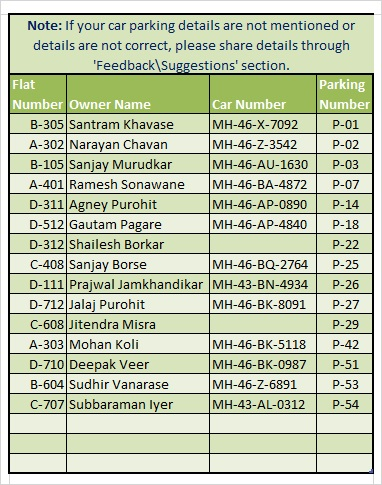
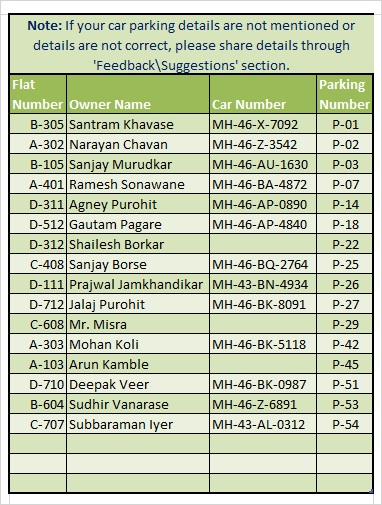
Parking

diff --git a/src/main/webapp/js/bootpopup.js b/src/main/webapp/js/bootpopup.js
@@ -1,0 +1,213 @@
+/**************************************************************************
+ * Popup dialog boxes for Bootstrap - http://www.bootpopup.tk
+ * Copyright (C) 2016  rigon<ricardompgoncalves@gmail.com>
+ *
+ * This program is free software: you can redistribute it and/or modify
+ * it under the terms of the GNU General Public License as published by
+ * the Free Software Foundation, either version 3 of the License, or
+ * (at your option) any later version.
+ *
+ * This program is distributed in the hope that it will be useful,
+ * but WITHOUT ANY WARRANTY; without even the implied warranty of
+ * MERCHANTABILITY or FITNESS FOR A PARTICULAR PURPOSE.  See the
+ * GNU General Public License for more details.
+ *
+ * You should have received a copy of the GNU General Public License
+ * along with this program.  If not, see <http://www.gnu.org/licenses/>.
+ *************************************************************************/
+
+
+var bootpopupFormCounter = 0;
+
+function bootpopup(options) {
+    bootpopupFormCounter++;
+
+    var opts = {
+        title: document.title,
+        showclose: true,
+        content: [],
+        buttons: ["close"],
+        dismiss: function(data) {},
+        close: function(data) {},
+        ok: function(data) {},
+        cancel: function(data) {},
+        yes: function(data) {},
+        no: function(data) {},
+        complete: function(data) {},
+    }
+
+    
+    var buttons = [];
+    for(key in options) {
+        if(key in opts)
+            opts[key] = options[key];
+        // If an event for a button is given, show the respective button
+        if(["close", "ok", "cancel", "yes", "no"].indexOf(key) >= 0)
+            buttons.push(key);
+    }
+    // Copy news buttons to opts.buttons
+    if(buttons.length > 0) {
+        // Clear default buttons if new are not given
+        if(!("buttons" in options)) opts.buttons = [];
+        buttons.forEach(function(item) {
+            if(opts.buttons.indexOf(item) < 0) opts.buttons.push(item);
+        });
+    }
+
+
+    var modalWindow = $('<div class="modal fade" tabindex="-1" role="dialog" aria-labelledby="bootpopup-title"></div>');
+    var dialog = $('<div class="modal-dialog" role="document"></div>');
+    var content = $('<div class="modal-content"></div>');
+    dialog.append(content);
+    modalWindow.append(dialog);
+    
+    // Header
+    var header = $('<div class="modal-header"></div>');
+    if(opts.showclose)
+        header.append('<button type="button" class="bootpopup-button close" data-dismiss="modal" aria-label="Close"><span aria-hidden="true">&times;</span></button>');
+    header.append('<h4 class="modal-title" id="bootpopup-title">' + opts.title + '</h4>');
+
+    content.append(header);
+    
+    // Body
+    var body = $('<div class="modal-body"></div>').appendTo(content);
+    var form = $("<form></form>", { id: "bootpopup-form" + bootpopupFormCounter, class: "form-horizontal" }).appendTo(body);
+
+    for(element in opts.content) {
+        for(type in opts.content[element]) {
+            var attrs = opts.content[element][type];
+            
+            for(attribute in attrs)
+                if(typeof attrs[attribute] === "function")
+                    attrs[attribute] = "("+ attrs[attribute] + ")(this)";
+
+            switch(type) {
+                /* // List of input types
+                case "button": case "checkbox": case "color": case "date": case "datetime-local": 
+                case "email": case "file": case "hidden": case "image": case "month": case "number":
+                case "password": case "radio": case "range": case "reset": case "search":
+                case "submit": case "tel": case "text": case "time": case "url": case "week": */
+                case "button": case "text": case "submit": case "color": case "url": case "password": 
+                case "hidden": case "file": case "number": case "email": case "reset": case "date":
+                    attrs.type = type;
+                    // Continue for input
+                case "input":
+                    attrs.id = (typeof attrs.id === "undefined" ? "bootpopup-form-input" + element : attrs.id);
+                    attrs.class = (typeof attrs.class === "undefined" ? "form-control" : attrs.class);
+                    attrs.type = (typeof attrs.type === "undefined" ? "text" : attrs.type);
+
+                    // Form Group
+                    var formGroup = $('<div class="form-group"></div>').appendTo(form);
+                    // Label
+                    $("<label></label>", { for: attrs.id, class: "col-sm-2 control-label", text: attrs.label}).appendTo(formGroup);
+                    // Input and div to control width
+                    var divColSm = $('<div class="col-sm-10"></div>').appendTo(formGroup);
+                    $("<input />", attrs).appendTo(divColSm);
+                    break;
+                default:
+                    form.append($("<" + type + ">", attrs));
+            }
+        }
+    }
+
+    // Footer
+    var footer = $('<div class="modal-footer"></div>');
+    content.append(footer);
+
+    for(key in opts.buttons) {
+        var item = opts.buttons[key];
+        var btnClass = "";
+        var btnText = "";
+
+        switch(item) {
+            case "close": btnClass = "btn-primary"; btnText="Close"; break;
+            case "ok": btnClass = "btn-primary"; btnText="OK"; break;
+            case "cancel": btnClass = "btn-default"; btnText="Cancel"; break;
+            case "yes": btnClass = "btn-primary"; btnText="Yes"; break;
+            case "no": btnClass = "btn-default"; btnText="No"; break;
+        }
+        
+        $("<button></button>", {
+            type: "button",
+            text: btnText,
+            class: "btn " + btnClass,
+            "data-dismiss": "modal",
+            "data-callback": item,
+            "data-form": "#bootpopup-form" + bootpopupFormCounter,
+            click: function(e) {
+                var callback = opts[$(e.target).attr("data-callback")];
+                var form = $(e.target).attr("data-form");
+                callback($(form).serializeArray(), e);
+            }
+        }).appendTo(footer);
+    }
+
+    // Fire the modal window
+    modalWindow.modal();
+    modalWindow.on('hide.bs.modal', function (e) { opts.dismiss(e); });
+    modalWindow.on('hidden.bs.modal', function (e) { opts.complete(e); });
+}
+
+
+bootpopup.alert = function(message, title, callback) {
+    if(typeof title === "function")
+        callback = title;
+
+    if(typeof title !== "string")
+        title = document.title;
+    if(typeof callback !== "function")
+        callback = function() {};
+    
+    bootpopup({
+        title: title,
+        content: [{ p: {text: message}}],
+        dismiss: function(data) { callback(); }
+    });
+}
+
+bootpopup.confirm = function(message, title, callback) {
+    if(typeof title === "function")
+        callback = title;
+
+    if(typeof title !== "string")
+        title = document.title;
+    if(typeof callback !== "function")
+        callback = function() {};
+    
+    var answer = false;
+    bootpopup({
+        title: title,
+        showclose: false,
+        content: [{ p: {text: message}}],
+        buttons: ["no", "yes"],
+        yes: function(data) { answer = true; },
+        dismiss: function(data) { callback(answer); }
+    });
+}
+
+bootpopup.prompt = function(label, type, message, title, callback) {
+    if(typeof type === "function")
+        callback = type;
+    if(typeof message === "function")
+        callback = message;
+    if(typeof title === "function")
+        callback = title;
+
+    if(typeof type !== "string")
+        type = "text";
+    if(typeof message !== "string")
+        message = "Provide a " + type + " for:";
+    if(typeof title !== "string")
+        title = document.title;
+    if(typeof callback !== "function")
+        callback = function() {};
+    
+    bootpopup({
+        title: title,
+        content: [
+            { p: {text: message}},
+            { input: {type: type, name: "value", label: label}}],
+        buttons: ["cancel", "ok"],
+        ok: callback
+    });
+}

diff --git a/src/main/webapp/CarParkingLayout.html b/src/main/webapp/CarParkingLayout.html
@@ -59,39 +59,44 @@
             </section>
         </header>
         
-		<img id="myid" class="NO-CACHE"  data-src="img/ParkingLayout.jpg" alt="" border = "0" usemap = "#html" style="margin-bottom: 22px;">
+		
+		<!-- <img id="myid" class="NO-CACHE" data-src="img/ParkingLayout.jpg" alt="" border = "0" usemap = "#html" style="margin-bottom: 22px;"> -->
+		
+		<img id="myid" class="NO-CACHE" data-src="img/ParkingLayout.jpg" alt="" border = "0" usemap = "#html" style="margin-bottom: 22px;">
 
       <map name = "html">
-         <area shape = "rect"  coords="90,90,170,110" onclick="GetParkingInfo('D-712, Jalaj Purohit, | P-27 | ')" href="#" >
+         <area shape = "rect" coords="90,90,170,110" onclick="GetParkingInfo('D-712, Jalaj Purohit, | P-27 | ')" href="#" >
         
         <area shape = "rect"  coords="690,50,730,70" onclick="GetParkingInfo('B-305, Santram Khavase, | P-01 | ')" href="#" >
         
         <area shape = "rect"  coords="650,50,690,70" onclick="GetParkingInfo('A-302, Narayan Chavan, | P-02 | ')" href="#" >
         
-        <area shape = "rect"  coords="610,50,650,70" onclick="GetParkingInfo('A-105, Sanjay Murudkar, | P-03 | ')" href="#" >
+        <area shape = "rect"  coords="610,50,650,70" onclick="GetParkingInfo('B-105, Sanjay Murudkar, | P-03 | ')" href="#" >
         
         <area shape = "rect"  coords="530,70,570,90" onclick="GetParkingInfo('A-401, Ramesh Sonawane, | P-07 | ')" href="#" >
         
         <area shape = "rect"  coords="330,50,370,70" onclick="GetParkingInfo('D-311, Agney Purohit, | P-14 | ')" href="#" >
         
-        <area shape = "rect"  coords="290,70,330,90" onclick="GetParkingInfo('A-512, Gautam Pagare, | P-18 | ')" href="#" >
+        <area shape = "rect"  coords="290,70,330,90" onclick="GetParkingInfo('D-512, Gautam Pagare, | P-18 | ')" href="#" >
         
         <area shape = "rect"  coords="210,50,250,70" onclick="GetParkingInfo('D-312, Shailesh Borkar, | P-22 | ')" href="#" >
         
         <area shape = "rect"  coords="130,50,170,90" onclick="GetParkingInfo('C-408, Sanjay Borse, | P-25 | ')" href="#" >
         
-        <area shape = "rect"  coords="90,50,130,90" onclick="GetParkingInfo('D-111, Prajwal Jamkhandikar, | P-26 | ')" href="#" >
+        <area shape = "rect"  coords="90,50,130,90"  onclick="GetParkingInfo('D-111, Prajwal Jamkhandikar, | P-26 | ')" href="#" >
         
-        <area shape = "rect"  coords="90,130,130,150" onclick="GetParkingInfo('C-608, Jitendra Misra, | P-29 | ')" href="#" >
+        <area shape = "rect"  coords="90,130,130,150" onclick="GetParkingInfo('C-608, Mr. Misra, | P-29 | ')" href="#" >
         
         <area shape = "rect"  coords="610,10,650,30" onclick="GetParkingInfo('A-303, Mohan Koli, | P-42 | ')" href="#" >
+        
+        <area shape = "rect"  coords="370,10,410,30" onclick="GetParkingInfo('A-103, Arun Kamble, | P-45 | ')" href="#" >
         
         <area shape = "rect"  coords="10,30,50,50" onclick="GetParkingInfo('D-710, Deepak Veer, | P-51 | ')" href="#" >
         
         <area shape = "rect"  coords="10,110,50,130" onclick="GetParkingInfo('B-604, Sudhir Vanarase, | P-53 | ')" href="#" >
         
         <area shape = "rect"  coords="10,150,50,170" onclick="GetParkingInfo('C-707, Subbaraman Iyer, | P-54 | ')" href="#" >
-        
+    
           
       </map>
       
@@ -122,21 +127,23 @@
     <script src="js/bootstrap.min.js"></script>
     <script src="js/owl.carousel.min.js"></script>
     <script src="js/active.js"></script>
-    <script src="node_modules/bootpopup/bootpopup.min.js"></script>
+    <script src="js/bootpopup.js"></script> 
+	
 	<script> 
         $(document).ready(function () 
             {
             $('.NO-CACHE').attr('src', function () { return $(this).attr('data-src') + "?a=" + Math.random() });
-            });
-    </script>
-      <script>
-         var myVal = document.getElementById("myid").useMap;
-         document.write("<br>Usemap value: "+myVal);
-         function GetParkingInfo(value){
-              alert('Parking alloted to -  '+value); 
-             return false;
-         }
-      </script>
+            
+   	});
+   	
+    var myVal = document.getElementById("myid").useMap;
+    document.write("<br>Usemap value: "+myVal);
+    function GetParkingInfo(value){
+           /* alert('Parking alloted to -  '+value) ; */
+          bootpopup.alert("Parking alloted to :  "  + value ,"Siddhivinayak Platinum");
+    return false;
+    }
+ </script>
 </body>
 
 </html>

diff --git a/src/main/webapp/style.css b/src/main/webapp/style.css
@@ -1162,3 +1162,7 @@
 .footer_carosal_icon .owl-nav{
     display: none;
 }
+
+
+
+
